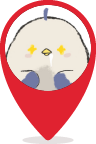
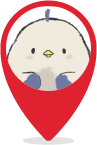
Add chat bg

diff --git a/src/pages/QRTreasure/QRTreasure.tsx b/src/pages/QRTreasure/QRTreasure.tsx
@@ -61,7 +61,7 @@ export default function QRTreasure() {
   };
 
   return (
-    <div className='flex flex-col max-w-4xl mx-auto '>
+    <div className='flex flex-col max-w-4xl mx-auto'>
       {/* 공통 헤더 - 뒤로가기 버튼 활성화 */}
       <QRHeader showBackButton={true} backTo='/qrtreasure' />
 
@@ -71,7 +71,7 @@ export default function QRTreasure() {
             {locations.map((location, index) => (
               <button
                 key={index}
-                className={`text-sm sm:text-base md:text-lg px-3 sm:px-4 md:px-5 py-2 sm:py-2.5 md:py-3 rounded-lg font-semibold cursor-pointer whitespace-nowrap ${
+                className={`text-xs sm:text-sm md:text-base px-2 sm:px-3 md:px-4 py-1.5 sm:py-2 md:py-2.5 rounded-lg font-semibold cursor-pointer whitespace-nowrap ${
                   location.checked
                     ? 'bg-red-500 text-white'
                     : selectedLocation.title === location.title
@@ -89,7 +89,7 @@ export default function QRTreasure() {
         <div className='rounded-lg overflow-hidden border border-gray-300'>
           <KakaoMap
             width='100%'
-            height='350px'
+            height='300px'
             latitude={selectedLocation.lat}
             longitude={selectedLocation.lng}
             level={3}
@@ -101,21 +101,27 @@ export default function QRTreasure() {
 
         <div className='mt-4 flex rounded-lg'>
           <img src='/profile.png' alt='profile' className='w-1/5 h-fit' />
-          <div className='w-full bg-white ml-3 p-2 rounded-xl'>
+          <div className='bg-[url(/chat.png)] bg-cover bg-center w-full ml-1 py-2 pl-4 pr-3 min-h-[80px] flex flex-col justify-center'>
             {selectedLocation.title !== '전체 보기' ? (
               <>
-                <p className='text-xl font-bold mb-2'>{selectedLocation.title}</p>
-                <p className='mb-3'>{selectedLocation.description || '설명이 없습니다.'}</p>
+                <p className='text-base sm:text-lg md:text-xl font-bold mb-1 sm:mb-2'>
+                  {selectedLocation.title}
+                </p>
+                <p className='text-xs sm:text-sm md:text-base'>
+                  {selectedLocation.description || '설명이 없습니다.'}
+                </p>
               </>
             ) : (
-              <p>지도에서 위치를 선택하거나 마커를 클릭하면 해당 장소의 정보가 표시됩니다.</p>
+              <p className='text-base'>
+                지도에서 위치를 선택하거나 마커를 클릭하면 해당 장소의 정보가 표시됩니다.
+              </p>
             )}
           </div>
         </div>
 
-        <div className='my-4 border-2 p-4 rounded-xl w-full bg-[#FFFDF2]'>
+        <div className='my-4 border-2 p-3 sm:p-4 rounded-xl w-full bg-[#FFFDF2]'>
           <button
-            className='w-full cursor-pointer flex justify-between text-[18px] '
+            className='w-full cursor-pointer flex justify-between text-sm sm:text-base md:text-lg'
             onClick={() => setIsOpen(!isOpen)}
           >
             <h3 className='font-bold'>이벤트 참여 방법 알아보기</h3>
@@ -128,16 +134,18 @@ export default function QRTreasure() {
           {isOpen ? (
             <>
               <br />
-              <div className='text-[16px] text-[#191F28] font-regular'>
-                <p className='text-[18px] font-bold underline'>이벤트 참여 방법</p>
+              <div className='text-xs sm:text-sm md:text-base text-[#191F28] font-regular'>
+                <p className='text-sm sm:text-base md:text-lg font-bold underline'>
+                  이벤트 참여 방법
+                </p>
                 <p>1. 📍 지도에서 위치 마크 보고 QR코드 찾기</p>
                 <p>2. 📸 카메라로 QR코드 스캔하기</p>
                 <p>3. 📲 공유하기 버튼을 통해 인스타에 공유하고 @dokpami.nft 태그하기</p>
                 <p>4. 🔍 다음 QR코드를 찾아 더 나은 선물 받기</p>
               </div>
               <br />
-              <div className='text-[16px] text-[#191F28] font-regula'>
-                <p className='text-[18px] font-bold underline'>상품 안내</p>
+              <div className='text-xs sm:text-sm md:text-base text-[#191F28] font-regular'>
+                <p className='text-sm sm:text-base md:text-lg font-bold underline'>상품 안내</p>
                 <p>· 6개 QR코드 중 1개 이상 스캔 시 🥛바나나우유 10명 (추첨)</p>
                 <p>· 6개 QR코드 중 3개 이상 스캔 시 ☕스타벅스 커피 3명 (추첨)</p>
                 <p>· 6개 QR코드 모두 스캔 시 🏆1명에게 스탠리 텀블러 지급 (추첨)</p>

diff --git a/src/pages/QRTreasure/_KakaoMap.tsx b/src/pages/QRTreasure/_KakaoMap.tsx
@@ -42,9 +42,7 @@ export default function KakaoMap({
     script.async = true;
 
     script.onload = () => {
-      console.log('카카오맵 스크립트 로드 성공');
       window.kakao.maps.load(() => {
-        console.log('카카오맵 초기화 완료');
         setIsScriptLoaded(true);
       });
     };
@@ -63,16 +61,14 @@ export default function KakaoMap({
     if (!isScriptLoaded || !mapRef.current) return;
 
     try {
-      console.log('지도 객체 생성 시작');
       const options = {
         center: new window.kakao.maps.LatLng(latitude, longitude),
         level: level,
       };
 
       const map = new window.kakao.maps.Map(mapRef.current, options);
-      console.log('지도 생성됨');
 
-      const markerImgSrc = '/marker_white.png';
+      const markerImgSrc = '/marker_yellow.png';
       const checkedMarkerImgSrc = '/marker_red.png'; // 선택된 마커 이미지
       const normalSize = new window.kakao.maps.Size(30, 45); // 기본 마커 사이즈
       const hoverSize = new window.kakao.maps.Size(32, 48); // 마우스 오버시 마커 사이즈
@@ -120,7 +116,6 @@ export default function KakaoMap({
         if (!bounds.isEmpty()) {
           map.setBounds(bounds); // 지도 크기 자동 조정
         }
-        console.log('모든 마커 추가됨');
       } else {
         // 장소 선택 시, 마커 하나 표시
         const selectedLoc = locations.find((loc) => loc.lat === latitude && loc.lng === longitude);
@@ -145,7 +140,6 @@ export default function KakaoMap({
           onMarkerClick(selectedLoc.title);
         });
         marker.setMap(map);
-        console.log('단일 마커 추가됨');
       }
       // 지도 크기 조정 이벤트 발생
       setTimeout(() => {
